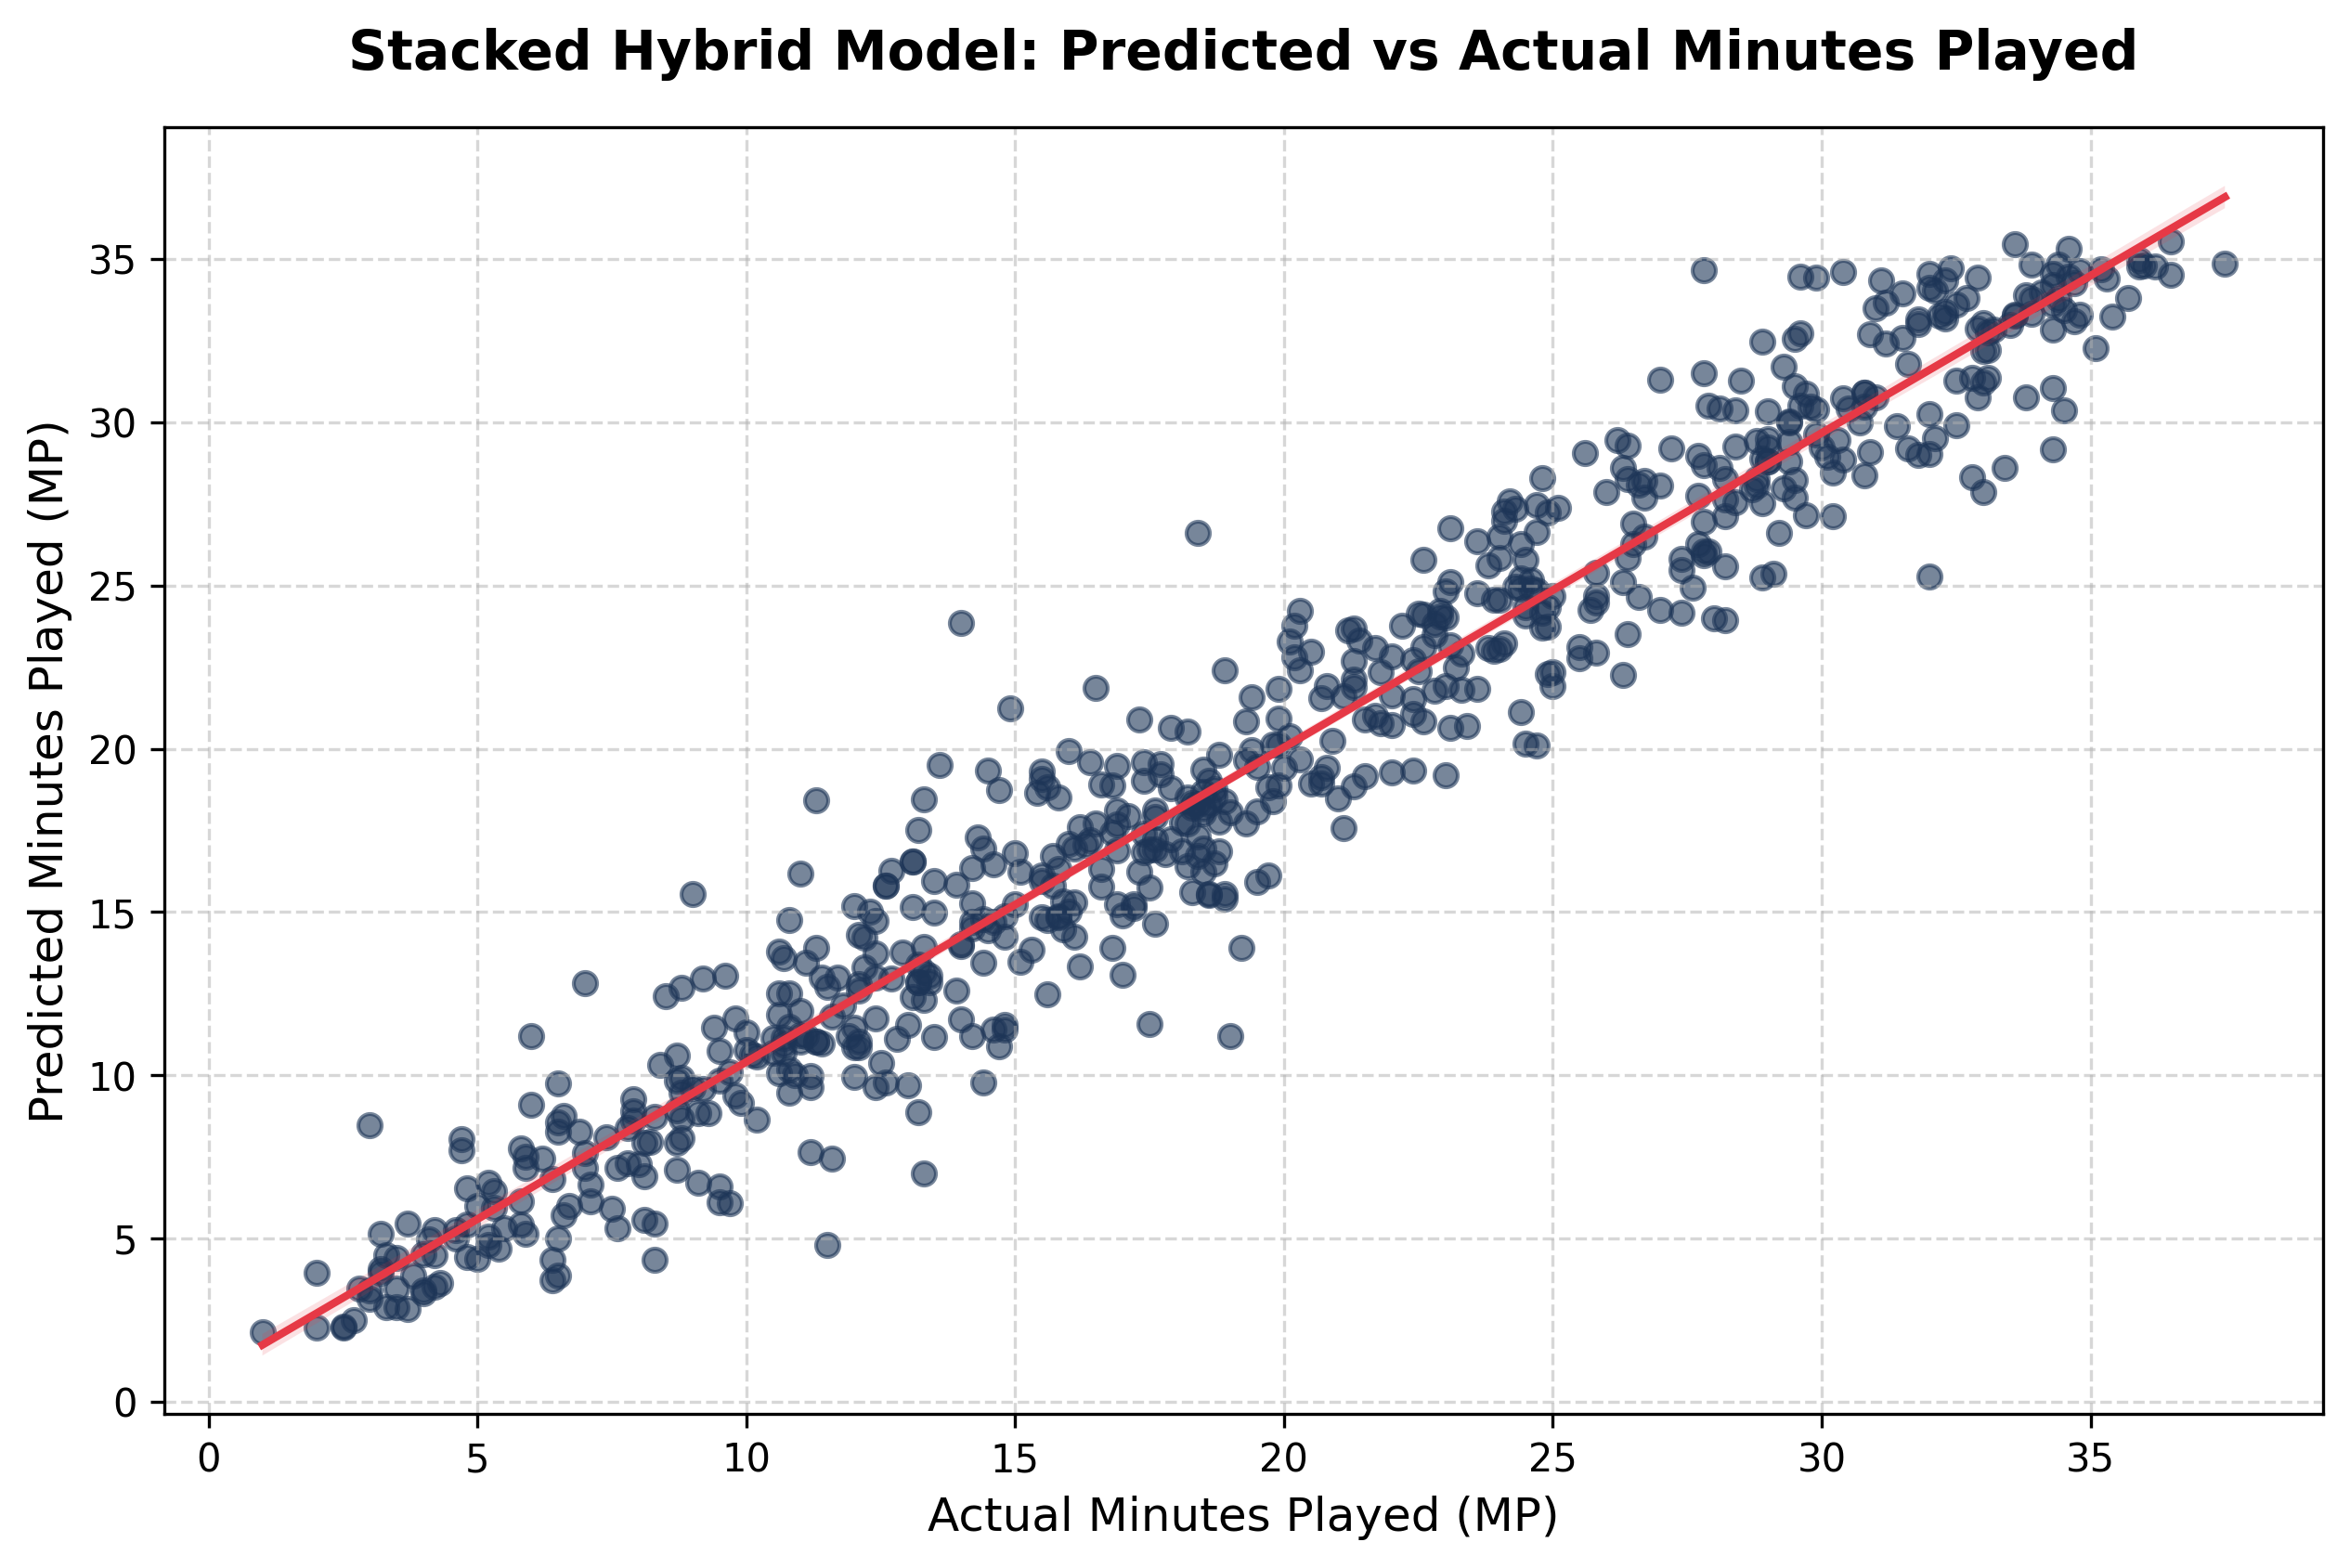
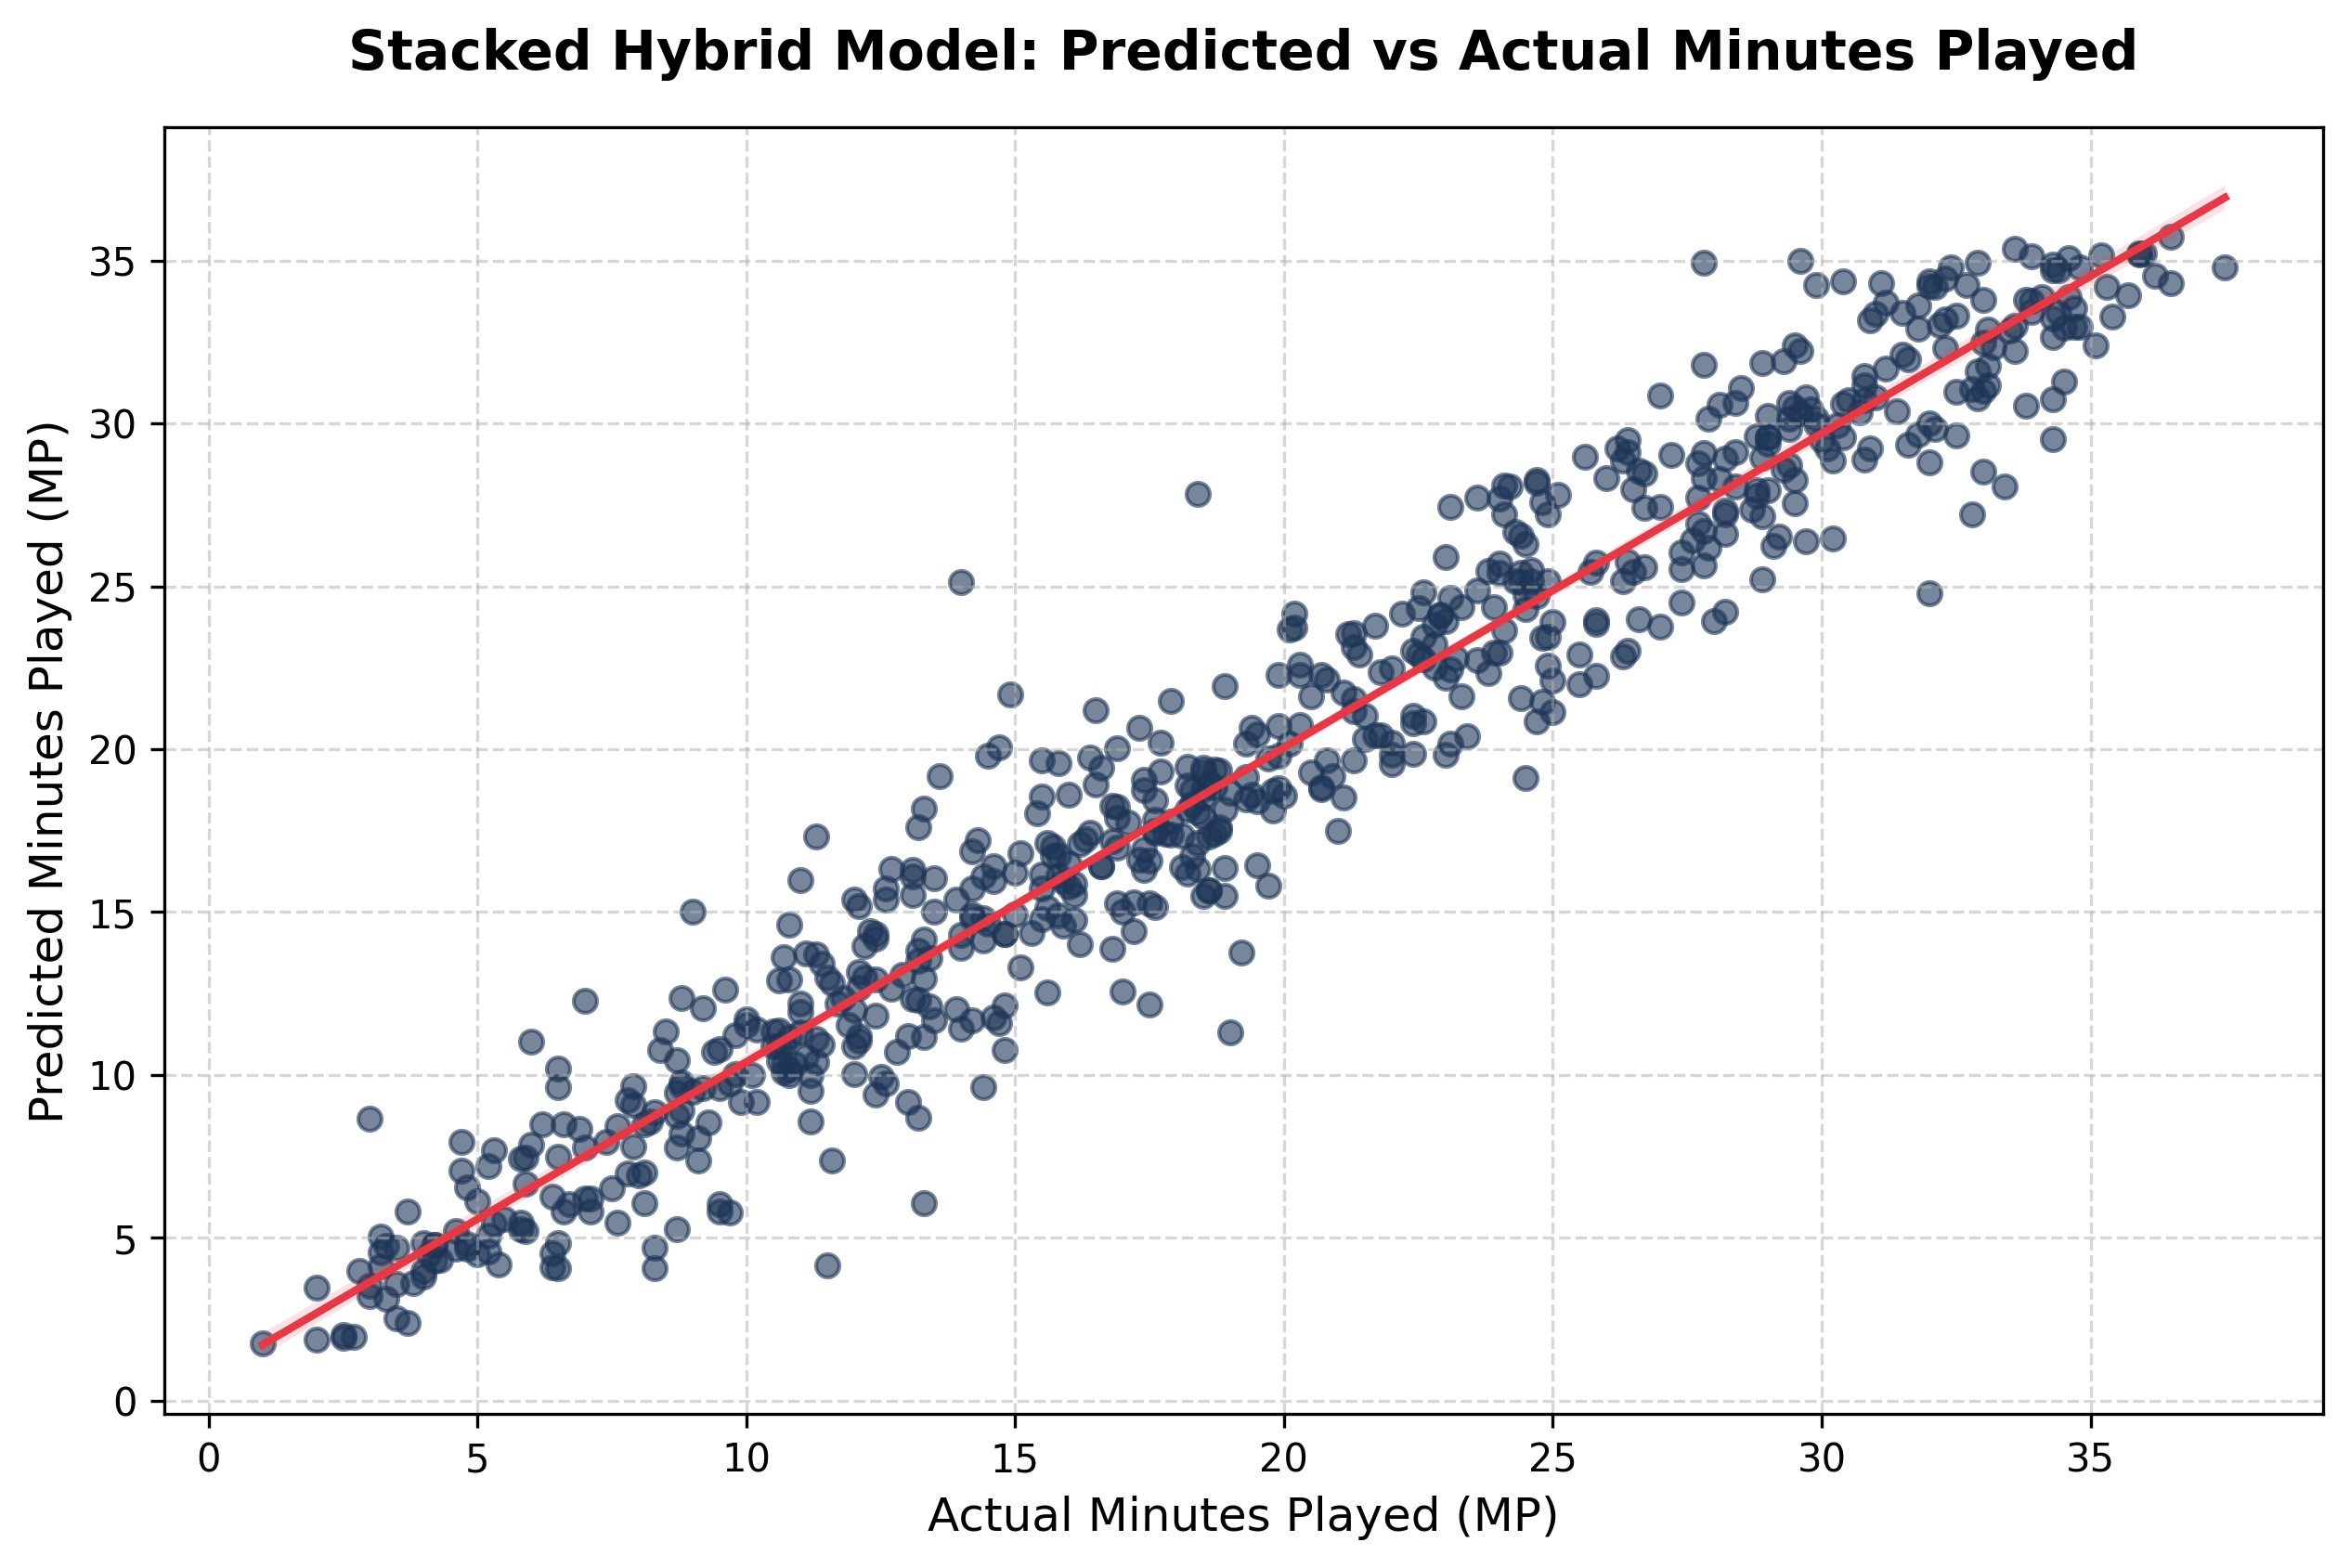
Replace GridSearchCV with Hyperopt for Bayesian hyperparameter tuning

diff --git a/model.py b/model.py
@@ -2,7 +2,7 @@
 """
 NBA Playing Time Prediction Model
 Author: Aashish Arya
-Optimized ML Pipeline with Feature Engineering, Hyperparameter Tuning, and Stacking Ensembles.
+Optimized ML Pipeline with Feature Engineering, Bayesian Hyperparameter Tuning (Hyperopt), and Stacking Ensembles.
 """
 
 import sys
@@ -11,7 +11,7 @@ import numpy as np
 import matplotlib.pyplot as plt
 import seaborn as sns
 
-from sklearn.model_selection import train_test_split, cross_val_score, GridSearchCV
+from sklearn.model_selection import train_test_split, cross_val_score
 from sklearn.pipeline import Pipeline
 from sklearn.compose import ColumnTransformer
 from sklearn.impute import SimpleImputer
@@ -19,6 +19,9 @@ from sklearn.preprocessing import StandardScaler, OneHotEncoder
 from sklearn.linear_model import LinearRegression, RidgeCV
 from sklearn.ensemble import RandomForestRegressor, HistGradientBoostingRegressor, StackingRegressor
 from sklearn.metrics import mean_absolute_error, r2_score
+
+# Hyperopt Imports
+from hyperopt import hp, tpe, fmin, Trials, space_eval, STATUS_OK
 
 # 1. Feature Engineering (Domain-Specific Features)
 def engineer_features(df):
@@ -173,41 +176,103 @@ def main():
     lr_preds = lr_pipeline.predict(X_test)
     print(f"Linear Regression Baseline -> R2: {r2_score(y_test, lr_preds):.4f} | MAE: {mean_absolute_error(y_test, lr_preds):.2f} mins")
     
-    # Random Forest with Grid Search
-    rf_pipeline = Pipeline(steps=[
-        ('preprocessor', preprocessor),
-        ('model', RandomForestRegressor(random_state=42))
-    ])
-    rf_param_grid = {
-        'model__n_estimators': [100, 200],
-        'model__max_depth': [10, 15, None],
-        'model__min_samples_split': [2, 5]
+    # Define hyperopt objectives and spaces
+    print("\nTuning models using Hyperopt (Bayesian Optimization)...")
+    
+    # --- Random Forest Tuning ---
+    rf_space = {
+        'n_estimators': hp.choice('n_estimators', [100, 200, 300]),
+        'max_depth': hp.choice('max_depth', [10, 15, None]),
+        'min_samples_split': hp.choice('min_samples_split', [2, 5, 10])
     }
-    print("Tuning Random Forest Regressor hyperparameters...")
-    rf_grid = GridSearchCV(rf_pipeline, rf_param_grid, cv=3, scoring='r2', n_jobs=-1)
-    rf_grid.fit(X_train, y_train)
-    best_rf = rf_grid.best_estimator_
+    
+    def rf_objective(params):
+        model = RandomForestRegressor(
+            n_estimators=params['n_estimators'],
+            max_depth=params['max_depth'],
+            min_samples_split=params['min_samples_split'],
+            random_state=42
+        )
+        pipeline = Pipeline(steps=[
+            ('preprocessor', preprocessor),
+            ('model', model)
+        ])
+        # Maximize R2 (equivalent to minimizing negative R2)
+        scores = cross_val_score(pipeline, X_train, y_train, cv=3, scoring='r2', n_jobs=-1)
+        return {'loss': -np.mean(scores), 'status': STATUS_OK}
+    
+    print("Tuning Random Forest Regressor...")
+    rf_trials = Trials()
+    best_rf_idx = fmin(
+        fn=rf_objective,
+        space=rf_space,
+        algo=tpe.suggest,
+        max_evals=10,
+        trials=rf_trials
+    )
+    best_rf_params = space_eval(rf_space, best_rf_idx)
+    print(f"Best RF Parameters: {best_rf_params}")
+    
+    # Train best RF Model
+    best_rf = Pipeline(steps=[
+        ('preprocessor', preprocessor),
+        ('model', RandomForestRegressor(
+            n_estimators=best_rf_params['n_estimators'],
+            max_depth=best_rf_params['max_depth'],
+            min_samples_split=best_rf_params['min_samples_split'],
+            random_state=42
+        ))
+    ])
+    best_rf.fit(X_train, y_train)
     rf_preds = best_rf.predict(X_test)
     print(f"Tuned Random Forest Regressor -> R2: {r2_score(y_test, rf_preds):.4f} | MAE: {mean_absolute_error(y_test, rf_preds):.2f} mins")
-    print(f"Best RF Parameters: {rf_grid.best_params_}")
     
-    # HistGradientBoosting with Grid Search
-    hgb_pipeline = Pipeline(steps=[
-        ('preprocessor', preprocessor),
-        ('model', HistGradientBoostingRegressor(random_state=42))
-    ])
-    hgb_param_grid = {
-        'model__learning_rate': [0.01, 0.05, 0.1],
-        'model__max_iter': [100, 200],
-        'model__max_depth': [3, 5, 8]
+    # --- HistGradientBoosting Tuning ---
+    hgb_space = {
+        'learning_rate': hp.uniform('learning_rate', 0.01, 0.2),
+        'max_iter': hp.choice('max_iter', [100, 200, 300]),
+        'max_depth': hp.choice('max_depth', [3, 5, 8, 12])
     }
-    print("Tuning HistGradientBoosting Regressor hyperparameters...")
-    hgb_grid = GridSearchCV(hgb_pipeline, hgb_param_grid, cv=3, scoring='r2', n_jobs=-1)
-    hgb_grid.fit(X_train, y_train)
-    best_hgb = hgb_grid.best_estimator_
+    
+    def hgb_objective(params):
+        model = HistGradientBoostingRegressor(
+            learning_rate=params['learning_rate'],
+            max_iter=params['max_iter'],
+            max_depth=params['max_depth'],
+            random_state=42
+        )
+        pipeline = Pipeline(steps=[
+            ('preprocessor', preprocessor),
+            ('model', model)
+        ])
+        scores = cross_val_score(pipeline, X_train, y_train, cv=3, scoring='r2', n_jobs=-1)
+        return {'loss': -np.mean(scores), 'status': STATUS_OK}
+    
+    print("Tuning HistGradientBoosting Regressor...")
+    hgb_trials = Trials()
+    best_hgb_idx = fmin(
+        fn=hgb_objective,
+        space=hgb_space,
+        algo=tpe.suggest,
+        max_evals=10,
+        trials=hgb_trials
+    )
+    best_hgb_params = space_eval(hgb_space, best_hgb_idx)
+    print(f"Best HGB Parameters: {best_hgb_params}")
+    
+    # Train best HGB Model
+    best_hgb = Pipeline(steps=[
+        ('preprocessor', preprocessor),
+        ('model', HistGradientBoostingRegressor(
+            learning_rate=best_hgb_params['learning_rate'],
+            max_iter=best_hgb_params['max_iter'],
+            max_depth=best_hgb_params['max_depth'],
+            random_state=42
+        ))
+    ])
+    best_hgb.fit(X_train, y_train)
     hgb_preds = best_hgb.predict(X_test)
     print(f"Tuned HistGradientBoosting    -> R2: {r2_score(y_test, hgb_preds):.4f} | MAE: {mean_absolute_error(y_test, hgb_preds):.2f} mins")
-    print(f"Best HGB Parameters: {hgb_grid.best_params_}")
     
     # 4. Ensemble Stacking Regressor
     print("\nTraining Ensemble Stacking Regressor...")

diff --git a/README.md b/README.md
@@ -26,7 +26,7 @@ Given a set of player attributes and performance metrics, the goal is to accurat
 ### ML Techniques & Architectures
 * **Feature Engineering:** Domain-specific calculations (True Shooting %, Per-game metrics, Assist-to-Turnover ratio, Starter Ratio).
 * **ColumnTransformer Pipeline:** Unified preprocessing handling numerical features (scaling & mean imputation) and categorical features (One-Hot Encoding) preventing data leakage.
-* **Hyperparameter Tuning:** Hyperparameter optimization via `GridSearchCV` on cross-validated training folds.
+* **Hyperparameter Tuning:** Bayesian Hyperparameter Optimization using the `hyperopt` library on cross-validated training folds.
 * **Stacked Generalization (Stacking):** Ensembles optimized Random Forest and HistGradientBoosting Regressors using a `RidgeCV` meta-learner to achieve high performance.
 
 ## 📊 Key Features
@@ -43,7 +43,7 @@ Given a set of player attributes and performance metrics, the goal is to accurat
 1. **Load Data:** Ingest NBA 2021 (Train) and NBA 2020 (Test) datasets.
 2. **Feature Engineering:** Compute True Shooting %, Starter Ratio, and per-game normalization.
 3. **Preprocessing:** Fit `SimpleImputer`, `StandardScaler`, and `OneHotEncoder` via `ColumnTransformer` inside pipelines.
-4. **Tuning:** Find optimal base model parameters via `GridSearchCV`.
+4. **Tuning:** Find optimal base model parameters via Bayesian optimization with `hyperopt`.
 5. **Stacking Ensemble:** Combine the optimized base regressors under a meta-learner.
 6. **Evaluation:** Output metrics on unseen 2020 testing data.
 7. **Visualization:** Plot Actual vs. Predicted values using `Seaborn.regplot`.